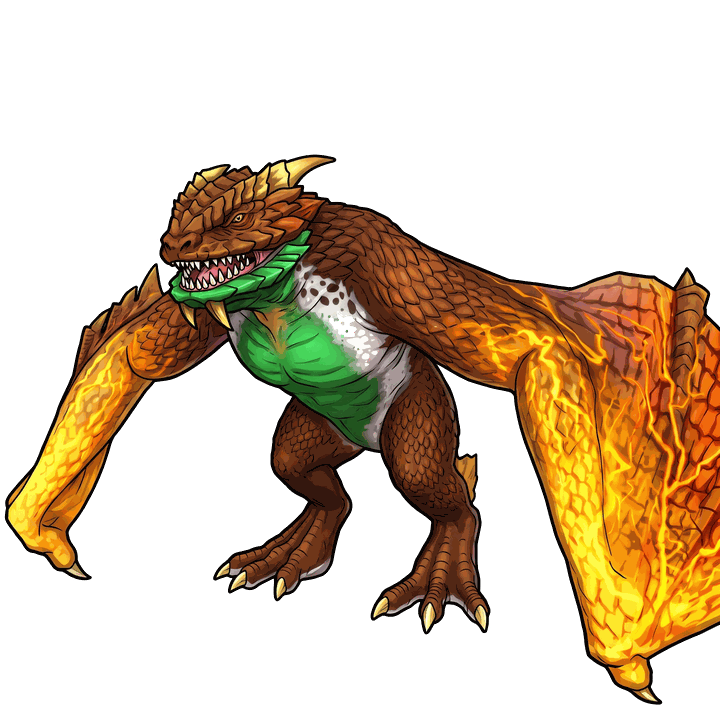
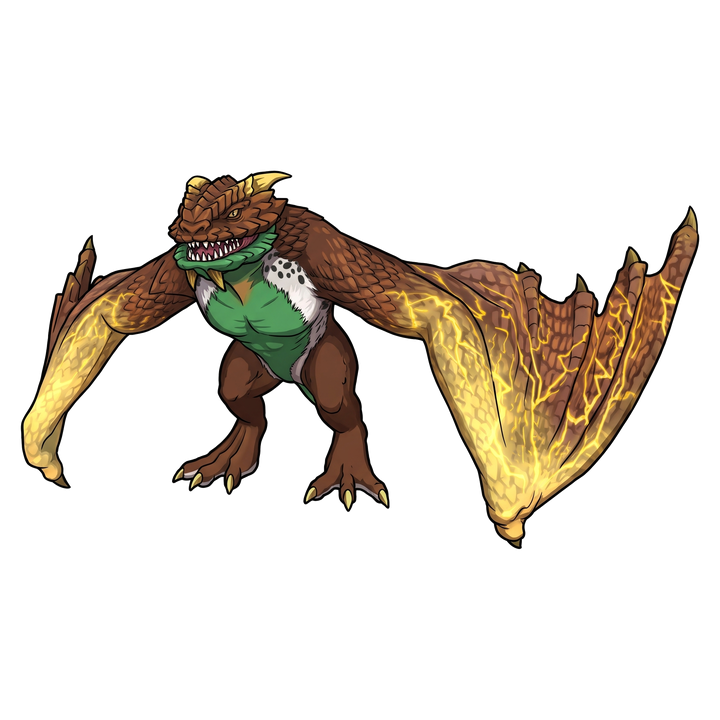
イラスト：蜃変異種・リントヴルム変異種を追加、クエレブレ変異種を全身の画像に差し替え

diff --git a/index.html b/index.html
@@ -5,6 +5,7 @@
   ・画像は images/ の中に No. と同じ2桁の番号で置きます
       images/illust/01.png … イラスト　images/chibi/01.png … デフォルメイラスト
       （選んだ方の画像が無いドラゴンは、もう一方の画像を出します）
+  ・育成ガイドの種族イラストは images/species/ に種族番号（魔石の順番）の2桁で置き、SP_IMG に種族名を足します
   ・デザインは「旅行のしおり集」（t-shimo-1121/shiori）に合わせています
 -->
 <html lang="ja">
@@ -1085,8 +1086,11 @@ function guideList(){
   GS.forEach(g=>{g.ty=g.spv?spvType(g.spv):"未調査";g.p=SP[g.spKey]||{}});
   return GS;
 }
-/* 種族のイラスト：その種族の魔石（相棒）の画像を使う。無ければ準備中の枠 */
-const gIllust=g=>g.d?illust(g.d):`<div class="illust ${state.img} empty"><span class="ph">${ico("img")}イラスト準備中</span></div>`;
+/* 種族のイラスト：images/species/ に種族番号（魔石の順番）の2桁で置いた画像を優先。
+   無ければその種族の魔石（相棒）の画像、それも無ければ準備中の枠。
+   画像を置いたら SP_IMG に種族名を足す */
+const SP_IMG=["リントヴルム変異種","蜃変異種"];
+const gIllust=g=>SP_IMG.some(s=>nsp(s)===nsp(g.sp))?`<div class="illust ${state.img}"><img src="images/species/${String(g.no).padStart(2,"0")}.png" alt="" loading="lazy"></div>`:g.d?illust(g.d):`<div class="illust ${state.img} empty"><span class="ph">${ico("img")}イラスト準備中</span></div>`;
 const gRadar=g=>g.spv?radar({nk:g.sp,st:g.spv.v.map(v=>({v})),total:spvTot(g.spv)},{sq:true,icons:false,max:75,hi:60,lo:25}):`<div class="nospv">種族値は<br>まだ調べていません</div>`;
 /* スキル：データのあるスキルを全部、Max（無ければ分かっている一番高いLv）で */
 const gSkills=g=>g.skKey?skillTable(g.skKey,Object.keys(SK[g.skKey]).map(n=>({n}))):`<p class="nodata">スキルはまだ調べていません</p>`;
